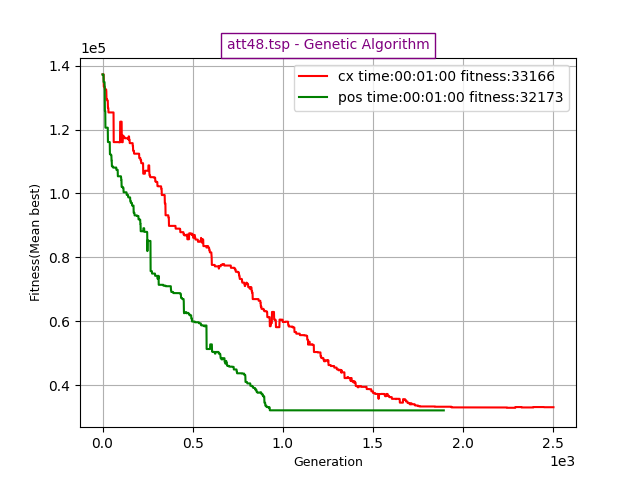
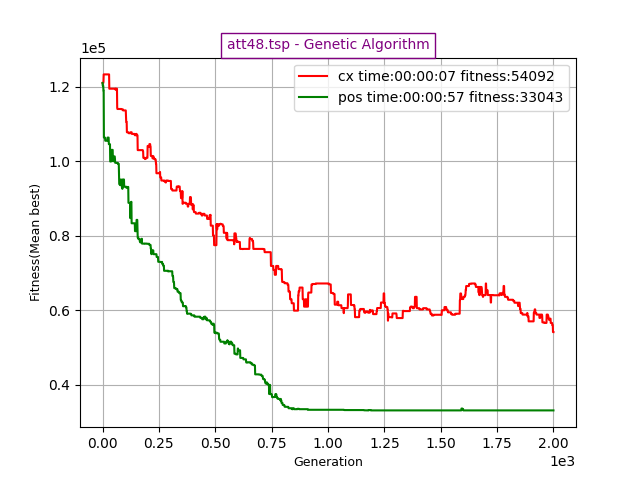
att

diff --git a/PCV/genetico/input.py b/PCV/genetico/input.py
@@ -30,19 +30,19 @@ def fileinput():
                         required=False,
                         help="Tamanho da população inicial (padrão: 25)")
 
-    parser.add_argument('-mut', action='store', dest='mutation', default=4,
+    parser.add_argument('-mut', action='store', type=int, dest='mutation', default=5,
                         required=False,
-                        help="Porcentagem de mutação (padrão: 4 )")
+                        help="Porcentagem de mutação (padrão: 5 )")
 
-    parser.add_argument('-max_i', action='store', dest='max_iteration', default=2000000,  # 2M
+    parser.add_argument('-max_i', action='store', type=int, dest='max_iteration', default=2000000,  # 2M
                         required=False,
                         help="Máximo de iterações (padrão: 2000000)")
 
-    parser.add_argument('-max_t', action='store', dest='max_time', default=120,  # 2H
+    parser.add_argument('-max_t', action='store', type=int, dest='max_time', default=120,  # 2H
                         required=False,
                         help="Máximo de tempo de execução (minutos) (padrão: 120)")
 
-    parser.add_argument('-s', action='store', dest='seed', default=5,
+    parser.add_argument('-s', action='store', type=int, dest='seed', default=5,
                         required=False,
                         help="Semente randômica (padrão: 5)")
 

diff --git a/PCV/genetico/main.py b/PCV/genetico/main.py
@@ -17,9 +17,9 @@ if __name__ == '__main__':
     ### Input ###
     args, graph = fileinput()
 
-    x2, y2, best_solution2, time2 = genetic(graph[:], int(args.population), int(args.mutation), int(args.max_iteration),
-                                            int(args.max_time) * 60, int(args.seed), 'pos')
-    x1, y1, best_solution1, time1 = genetic(graph[:], int(args.population), int(args.mutation), int(args.max_iteration),
-                                            int(args.max_time) * 60, int(args.seed), 'cx')
+    x2, y2, best_solution2, time2 = genetic(graph[:], args.population, args.mutation, args.max_iteration,
+                                            args.max_time * 60, args.seed, 'pos')
+    x1, y1, best_solution1, time1 = genetic(graph[:], args.population, args.mutation, args.max_iteration,
+                                            args.max_time * 60, args.seed, 'cx')
 
     plot_graf(x1, y1, x2, y2, file_name, best_solution1, best_solution2, 'cx', 'pos', time1, time2)

diff --git a/PCV/genetico/genetic.py b/PCV/genetico/genetic.py
@@ -341,8 +341,7 @@ def genetic(graph, pop, mut, max_i, max_t, s, cross_operator):
                 best_solution = fitness(graph, population[i])
                 index = i
 
-        print(
-            f'Iteração:{it} Crossover operator:{cross_operator} fitness:{best_solution} time:{str(time.strftime("%H:%M:%S", time.gmtime(exe_time)))}')
+        print(f'Iteração:{it} Crossover operator:{cross_operator} fitness:{best_solution} time:{str(time.strftime("%H:%M:%S", time.gmtime(exe_time)))}')
         plt_fitness.append(best_solution)
         plt_generation.append(it)
 
